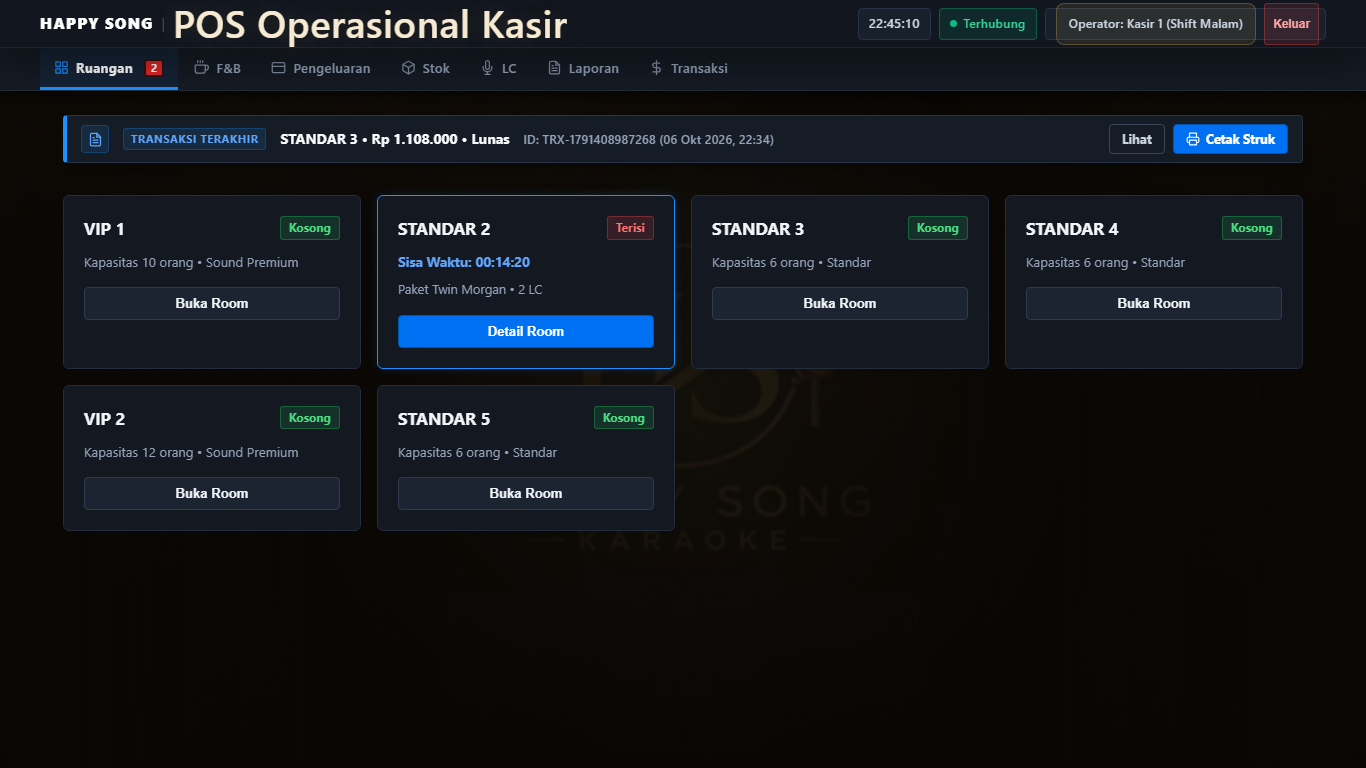
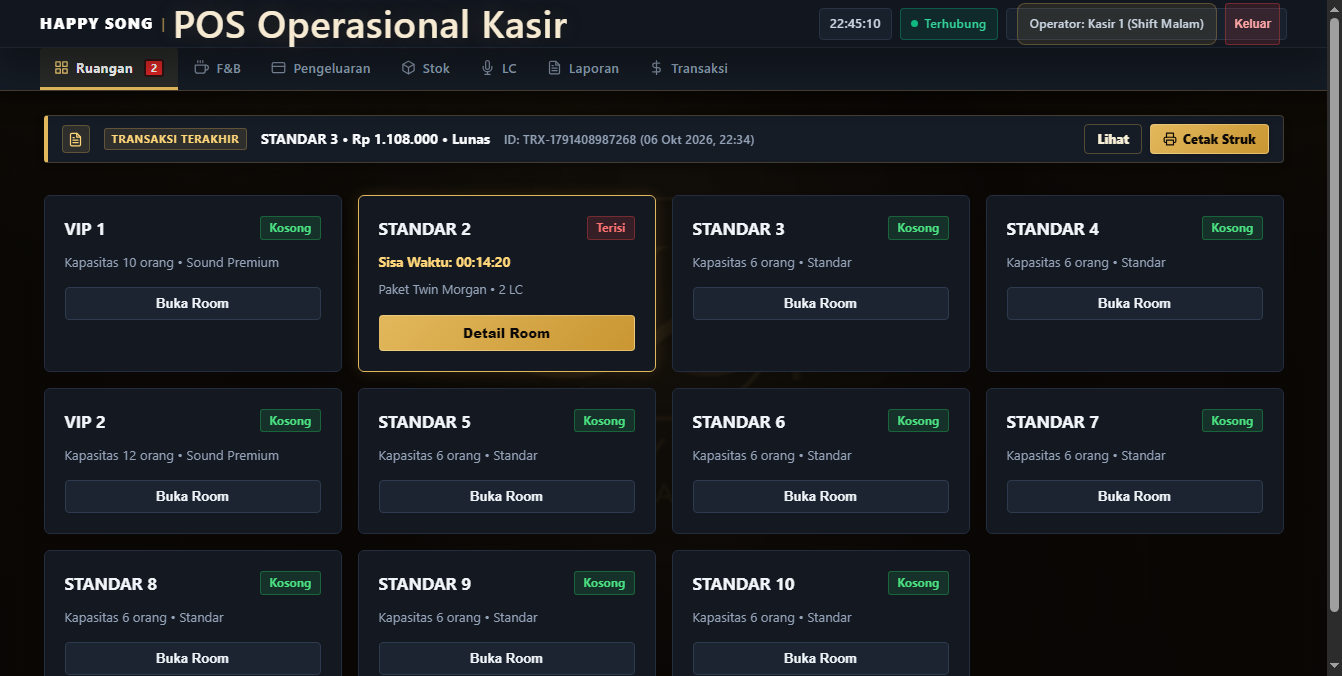
fix(ui): ubah aksen SAP ke warna gold venue dan perbaiki klik tab navigasi

diff --git a/css/skin-header-nav.css b/css/skin-header-nav.css
@@ -1,6 +1,7 @@
 /* ==========================================================================
-   HAPPY SONG KARAOKE - SAP ENTERPRISE FIORI LOOK (QUARTZ DARK)
+   HAPPY SONG KARAOKE - SAP ENTERPRISE FIORI LOOK (QUARTZ DARK + EXECUTIVE GOLD)
    Sistem Header Terpadu (Freeze ShellBar & IconTabBar), Telemetri, & MessageStrip
+   Ambience: Executive Dark Slate + Venue Gold Accents (#e2b85c / #ffd77a)
    ========================================================================== */
 
 /* 1. APP SHELL TOP (STICKY FREEZE CONTAINER)
@@ -14,8 +15,8 @@
   flex-direction: column;
   width: 100%;
   background: #11161f;
-  border-bottom: 1px solid #232c38;
-  box-shadow: 0 4px 16px rgba(0, 0, 0, 0.45);
+  border-bottom: 1px solid rgba(226, 184, 92, 0.25);
+  box-shadow: 0 4px 20px rgba(0, 0, 0, 0.5);
 }
 
 /* 2. SAP FIORI SHELLBAR (.app-header) */
@@ -54,16 +55,17 @@
 }
 
 .app-brand-divider {
-  color: #475569;
+  color: #e2b85c;
   font-size: 0.85rem;
   font-weight: 400;
   line-height: 1;
   user-select: none;
+  opacity: 0.7;
 }
 
 .app-brand-subtitle {
   margin: 0;
-  color: #94a3b8;
+  color: #cbd5e1;
   font-family: inherit;
   font-size: 0.82rem;
   font-weight: 600;
@@ -199,7 +201,7 @@
 
 /* ==========================================================================
    3. SAP FIORI ICONTABBAR (.app-tabs)
-   Flat tab bar dengan active bottom indicator underline 3px (SAP Blue #1b90ff)
+   Flat tab bar dengan active bottom indicator underline 3px (Executive Gold #e2b85c)
    ========================================================================== */
 .app-tabs {
   position: relative;
@@ -218,7 +220,7 @@
   overflow-y: hidden;
   box-sizing: border-box;
   scrollbar-width: thin;
-  scrollbar-color: #2b3644 transparent;
+  scrollbar-color: rgba(226, 184, 92, 0.25) transparent;
 }
 
 .app-tabs::-webkit-scrollbar {
@@ -226,7 +228,7 @@
 }
 
 .app-tabs::-webkit-scrollbar-thumb {
-  background: #2b3644;
+  background: rgba(226, 184, 92, 0.3);
   border-radius: 2px;
 }
 
@@ -264,32 +266,33 @@
 }
 
 .app-tab-button:hover {
-  background: rgba(255, 255, 255, 0.04);
-  color: #e2e8f0;
-  border-bottom-color: rgba(27, 144, 255, 0.4);
+  background: rgba(226, 184, 92, 0.06);
+  color: #f7eed7;
+  border-bottom-color: rgba(226, 184, 92, 0.45);
 }
 
 .app-tab-button:hover .app-tab-icon {
   opacity: 1;
+  color: #ffd77a;
 }
 
-/* Active State (SAP Enterprise Blue Underline) */
+/* Active State (Executive Gold Underline #e2b85c) */
 .app-tab-button.active,
 .app-tab-button[aria-selected="true"] {
-  background: rgba(27, 144, 255, 0.08);
-  border-bottom-color: #1b90ff;
+  background: rgba(226, 184, 92, 0.1);
+  border-bottom-color: #e2b85c;
   color: #ffffff;
-  font-weight: 700;
+  font-weight: 750;
 }
 
 .app-tab-button.active .app-tab-icon,
 .app-tab-button[aria-selected="true"] .app-tab-icon {
-  color: #1b90ff;
+  color: #ffd77a;
   opacity: 1;
 }
 
 .app-tab-button:focus-visible {
-  outline: 2px solid #1b90ff;
+  outline: 2px solid #e2b85c;
   outline-offset: -2px;
 }
 
@@ -315,13 +318,13 @@
   width: 1px;
   height: 18px;
   margin: 12px 4px 0;
-  background: #2b3644;
+  background: rgba(226, 184, 92, 0.2);
   flex: 0 0 1px;
 }
 
 /* ==========================================================================
    4. SAP COMPACT MESSAGESTRIP / TRANSACTION SHORTCUT
-   Datar, presisi, border-left SAP Info Blue, tombol aksi korporat tegas
+   Datar, presisi, border-left Executive Gold, tombol aksi berwibawa
    ========================================================================== */
 .latest-transaction-shortcut {
   grid-column: 1 / -1;
@@ -334,8 +337,8 @@
   min-height: 46px;
   border-radius: 4px;
   background: #161c26;
-  border: 1px solid #283344;
-  border-left: 4px solid #1b90ff;
+  border: 1px solid rgba(226, 184, 92, 0.22);
+  border-left: 4px solid #e2b85c;
   box-shadow: 0 2px 8px rgba(0, 0, 0, 0.25);
   box-sizing: border-box;
 }
@@ -347,9 +350,9 @@
   width: 28px;
   height: 28px;
   border-radius: 4px;
-  background: rgba(27, 144, 255, 0.12);
-  border: 1px solid rgba(27, 144, 255, 0.25);
-  color: #60a5fa;
+  background: rgba(226, 184, 92, 0.12);
+  border: 1px solid rgba(226, 184, 92, 0.28);
+  color: #ffd77a;
   flex: 0 0 28px;
 }
 
@@ -367,11 +370,11 @@
   align-items: center;
   padding: 2px 7px;
   border-radius: 3px;
-  background: rgba(27, 144, 255, 0.12);
-  border: 1px solid rgba(27, 144, 255, 0.25);
-  color: #60a5fa;
+  background: rgba(226, 184, 92, 0.12);
+  border: 1px solid rgba(226, 184, 92, 0.28);
+  color: #ffd77a;
   font-size: 0.7rem;
-  font-weight: 700;
+  font-weight: 750;
   letter-spacing: 0.04em;
   text-transform: uppercase;
   white-space: nowrap;
@@ -398,7 +401,7 @@
   flex: 0 0 auto;
 }
 
-/* SAP Standard Buttons */
+/* SAP Standard Buttons (Executive Gold Palette) */
 .latest-transaction-shortcut-button {
   display: inline-flex;
   align-items: center;
@@ -407,33 +410,35 @@
   height: 30px;
   padding: 0 12px;
   border-radius: 4px;
-  background: #0070f2;
-  border: 1px solid #0056b3;
-  color: #ffffff;
+  background: linear-gradient(135deg, #e2b85c 0%, #c99632 100%);
+  border: 1px solid rgba(255, 235, 180, 0.4);
+  color: #0c0906;
   font-size: 0.8rem;
-  font-weight: 700;
+  font-weight: 850;
   cursor: pointer;
   transition: all 0.15s ease;
   white-space: nowrap;
+  box-shadow: 0 1px 4px rgba(0, 0, 0, 0.3);
 }
 
 .latest-transaction-shortcut-button:hover,
 .latest-transaction-shortcut-button:focus-visible {
-  background: #1b90ff;
-  border-color: #1b90ff;
+  filter: brightness(1.1);
+  transform: translateY(-1px);
   outline: none;
 }
 
 .latest-transaction-shortcut-button.secondary {
   background: transparent;
-  border: 1px solid #3b4758;
-  color: #cbd5e1;
+  border: 1px solid rgba(226, 184, 92, 0.3);
+  color: #f7eed7;
+  box-shadow: none;
 }
 
 .latest-transaction-shortcut-button.secondary:hover,
 .latest-transaction-shortcut-button.secondary:focus-visible {
-  background: #1f2735;
-  border-color: #64748b;
+  background: rgba(226, 184, 92, 0.12);
+  border-color: #e2b85c;
   color: #ffffff;
 }
 

diff --git a/docs/uiux/uji-header-nav-dashboard.html b/docs/uiux/uji-header-nav-dashboard.html
@@ -101,14 +101,14 @@
           <button style="width: 100%; background: #1c2432; border: 1px solid #2e3b4e; color: #f1f5f9; padding: 8px 12px; border-radius: 4px; font-size: 0.82rem; font-weight: 600; cursor: pointer;">Buka Room</button>
         </div>
 
-        <div style="background: #141820; border: 1px solid #1b90ff; border-radius: 6px; padding: 1.25rem; box-shadow: 0 0 12px rgba(27, 144, 255, 0.15);">
+        <div style="background: #141820; border: 1px solid #e2b85c; border-radius: 6px; padding: 1.25rem; box-shadow: 0 0 16px rgba(226, 184, 92, 0.15);">
           <div style="display: flex; justify-content: space-between; align-items: center; margin-bottom: 0.75rem;">
             <strong style="color: #f1f5f9; font-size: 1.05rem;">STANDAR 2</strong>
             <span style="background: rgba(239, 68, 68, 0.15); color: #f87171; border: 1px solid rgba(239, 68, 68, 0.35); padding: 2px 8px; border-radius: 3px; font-size: 0.75rem; font-weight: 700;">Terisi</span>
           </div>
-          <p style="color: #60a5fa; font-size: 0.85rem; margin: 0 0 0.5rem 0; font-weight: 700;">Sisa Waktu: 00:14:20</p>
+          <p style="color: #ffd77a; font-size: 0.85rem; margin: 0 0 0.5rem 0; font-weight: 700;">Sisa Waktu: 00:14:20</p>
           <p style="color: #94a3b8; font-size: 0.8rem; margin: 0 0 1rem 0;">Paket Twin Morgan • 2 LC</p>
-          <button style="width: 100%; background: #0070f2; border: 1px solid #0056b3; color: #fff; padding: 8px 12px; border-radius: 4px; font-size: 0.82rem; font-weight: 700; cursor: pointer;">Detail Room</button>
+          <button style="width: 100%; background: linear-gradient(135deg, #e2b85c 0%, #c99632 100%); border: 1px solid rgba(255, 235, 180, 0.4); color: #0c0906; padding: 8px 12px; border-radius: 4px; font-size: 0.82rem; font-weight: 800; cursor: pointer;">Detail Room</button>
         </div>
 
         <div style="background: #141820; border: 1px solid #232d3d; border-radius: 6px; padding: 1.25rem;">

diff --git a/index.html b/index.html
@@ -56,7 +56,7 @@
       Redesain Header & Segmented Navigation Tabs:
       Tata letak terpadu, brand emblem, live clock, subtle live indicator, dan tab modern.
     -->
-    <link rel="stylesheet" href="css/skin-header-nav.css?v=sap-v1" />
+    <link rel="stylesheet" href="css/skin-header-nav.css?v=sap-gold-v2" />
   </head>
   <body>
     <!-- Shell Header Terpadu: Freeze di bagian atas saat halaman di-skrol (SAP ShellBar + IconTabBar) -->
@@ -91,6 +91,6 @@
       dan sumber data contoh digantikan oleh data API di js/app.js.
     -->
     <script src="/tv-bridge-config.js"></script>
-    <script type="module" src="js/app.js?v=trx-split-pill"></script>
+    <script type="module" src="js/app.js?v=nav-click-fix-v2"></script>
   </body>
 </html>

diff --git a/js/app.js b/js/app.js
@@ -39842,6 +39842,13 @@ if (dashboardShell) {
   dashboardShell.addEventListener("input", handleDashboardInput);
   dashboardShell.addEventListener("change", handleDashboardChange);
 }
+if (appTabsNav) {
+  appTabsNav.addEventListener("click", handleRoomAction);
+}
+const appShellTop = document.querySelector(".app-shell-top");
+if (appShellTop) {
+  appShellTop.addEventListener("click", handleRoomAction);
+}
 initializeDashboard();
 setInterval(updateRunningTimers, 1000);
 
